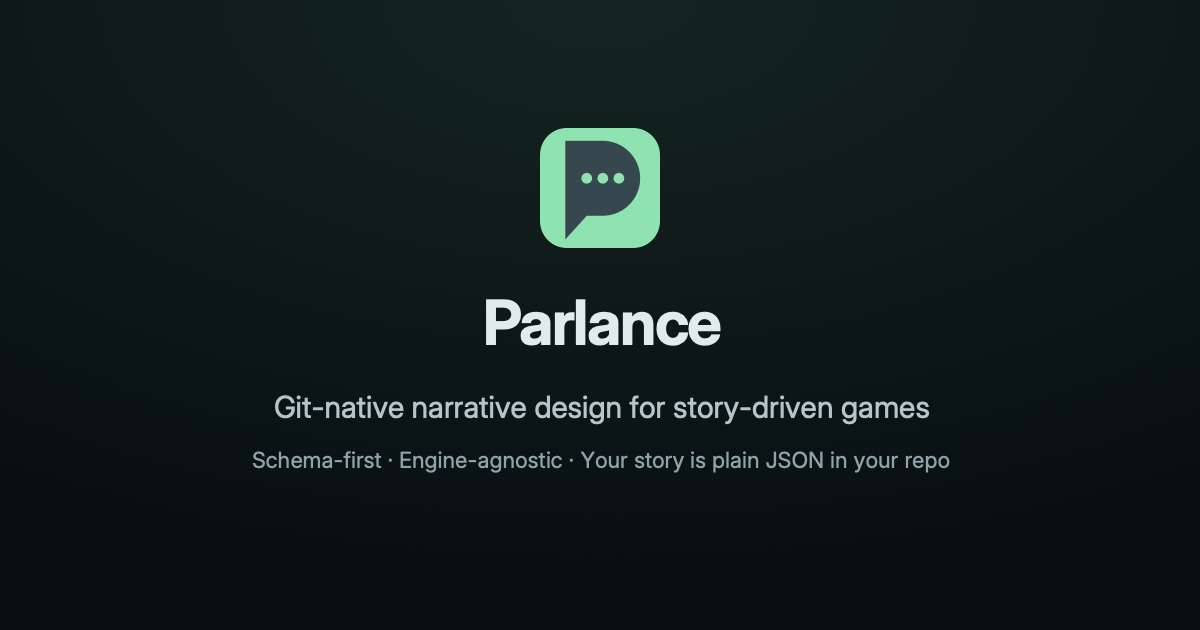
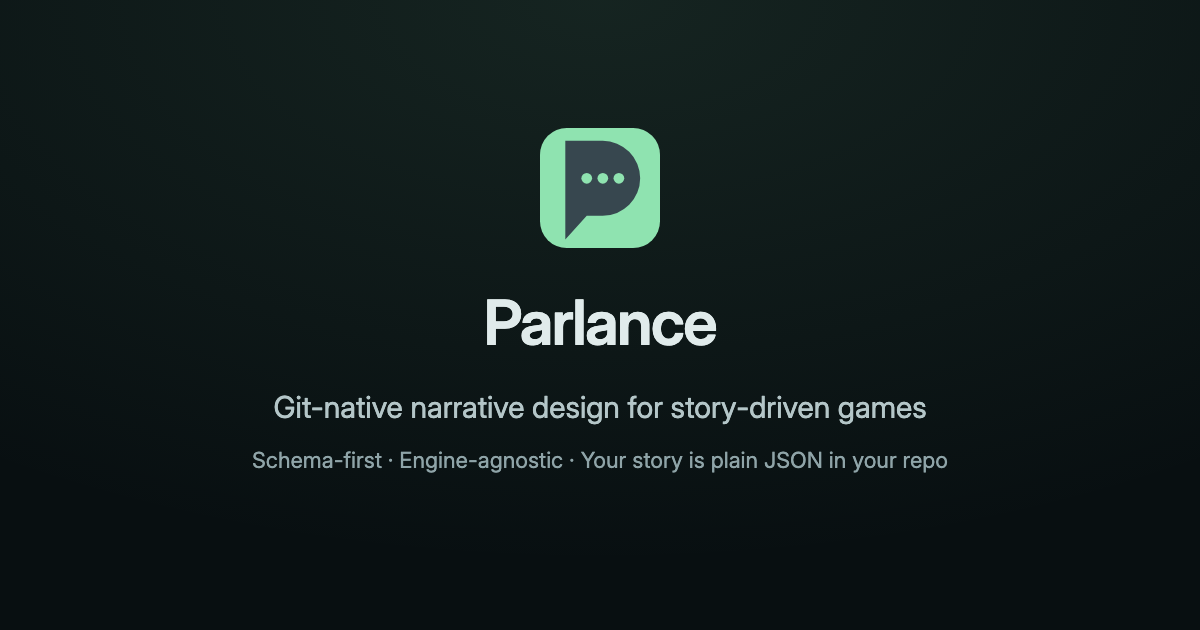
Per-page social cards, and stop guessing the card's dimensions (#2)
Every page shared one Open Graph image, so /compare/ — the page most likely
to get linked from a forum — rendered the same generic brand card as the docs
index. Pages can now set `ogImage` and `ogImageAlt` in the manifest; almost
none should, but a page people link to directly earns one.

/compare/ gets the first: same ground, mark and type scale as the default
card, with the page's own three lines.

Also adds og:image:width, og:image:height, og:image:alt and og:site_name.
The dimensions are read from the PNG's IHDR chunk rather than hardcoded,
which means they cannot drift from the file, and — more usefully — a typo in
an ogImage path now fails the build. It previously could not: checkLinks()
skips absolute https URLs, so og:image is the one link on the site nothing
was verifying, and a wrong path would have shipped a card that 404s in every
unfurl with no local symptom at all.

The regeneration command in both card SVGs was wrong: `qlmanage -s` scales
artwork to fill a square thumbnail instead of honouring the 1200x630 viewBox,
so it produces a zoomed crop, not the card. Replaced with `npm run og`
(build/render-og.mjs, headless Chrome at the SVG's declared size), which
rasterizes every og-*.svg. Re-rendering og-default.png through it is
byte-different but pixel-identical, and drops it from 410KB to 203KB by
losing an alpha channel an opaque card never needed.

The PNGs stay committed — the Pages runner has no browser and shouldn't need
one to deploy.

diff --git a/templates/shell.html b/templates/shell.html
@@ -11,7 +11,11 @@
 <meta property="og:description" content="{{description}}">
 <meta property="og:url" content="{{canonical}}">
 <meta property="og:image" content="{{ogimage}}">
+<meta property="og:image:width" content="{{ogimagew}}">
+<meta property="og:image:height" content="{{ogimageh}}">
+<meta property="og:image:alt" content="{{ogimagealt}}">
 <meta property="og:type" content="website">
+<meta property="og:site_name" content="{{sitename}}">
 <meta name="twitter:card" content="summary_large_image">
 <link rel="icon" type="image/svg+xml" href="{{root}}assets/brand/favicon.svg">
 <link rel="apple-touch-icon" href="{{root}}assets/brand/apple-touch-icon.png">
